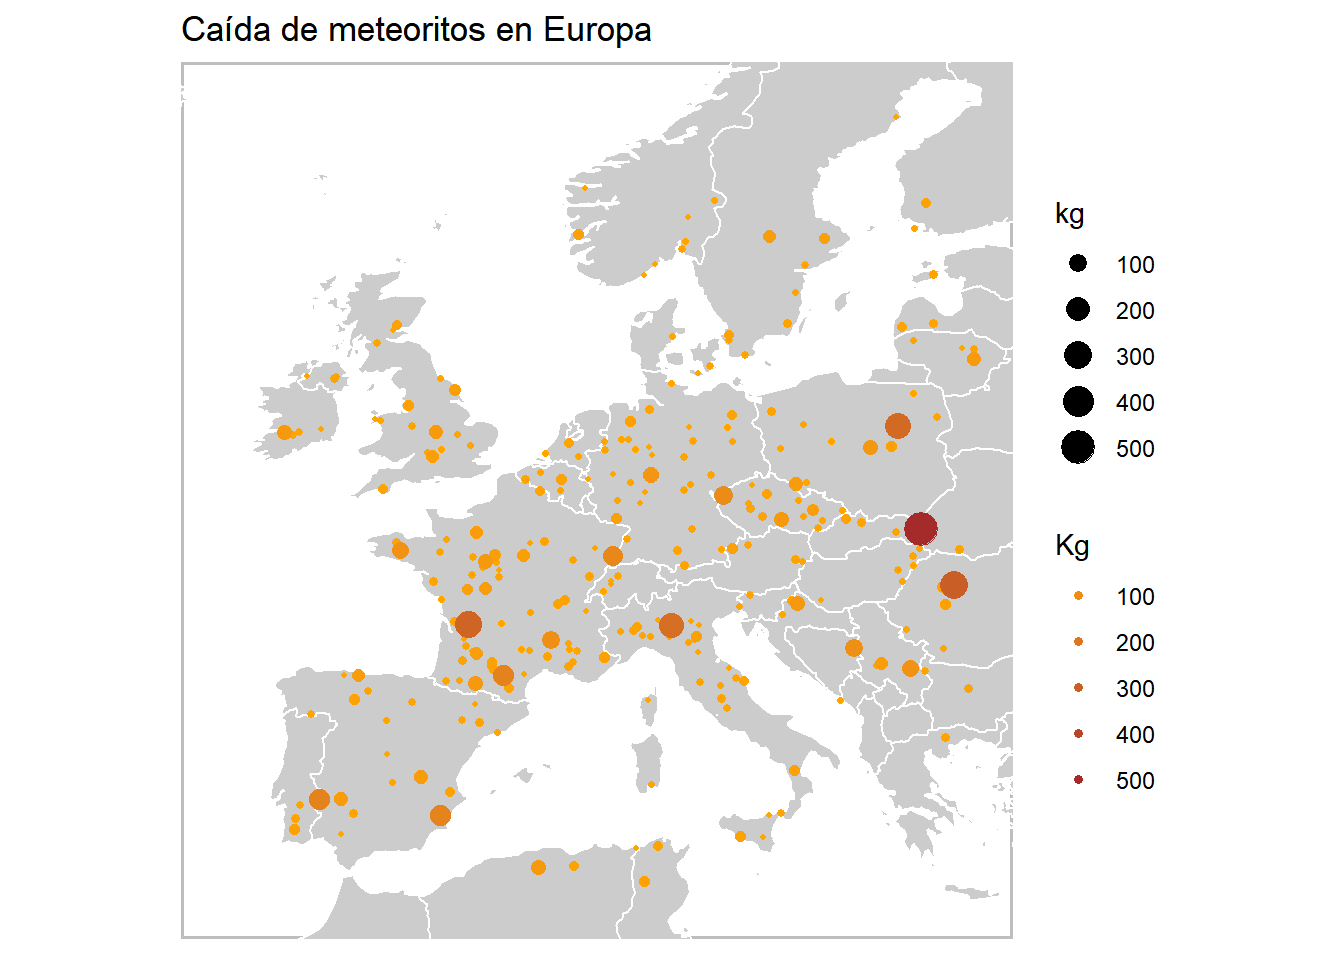
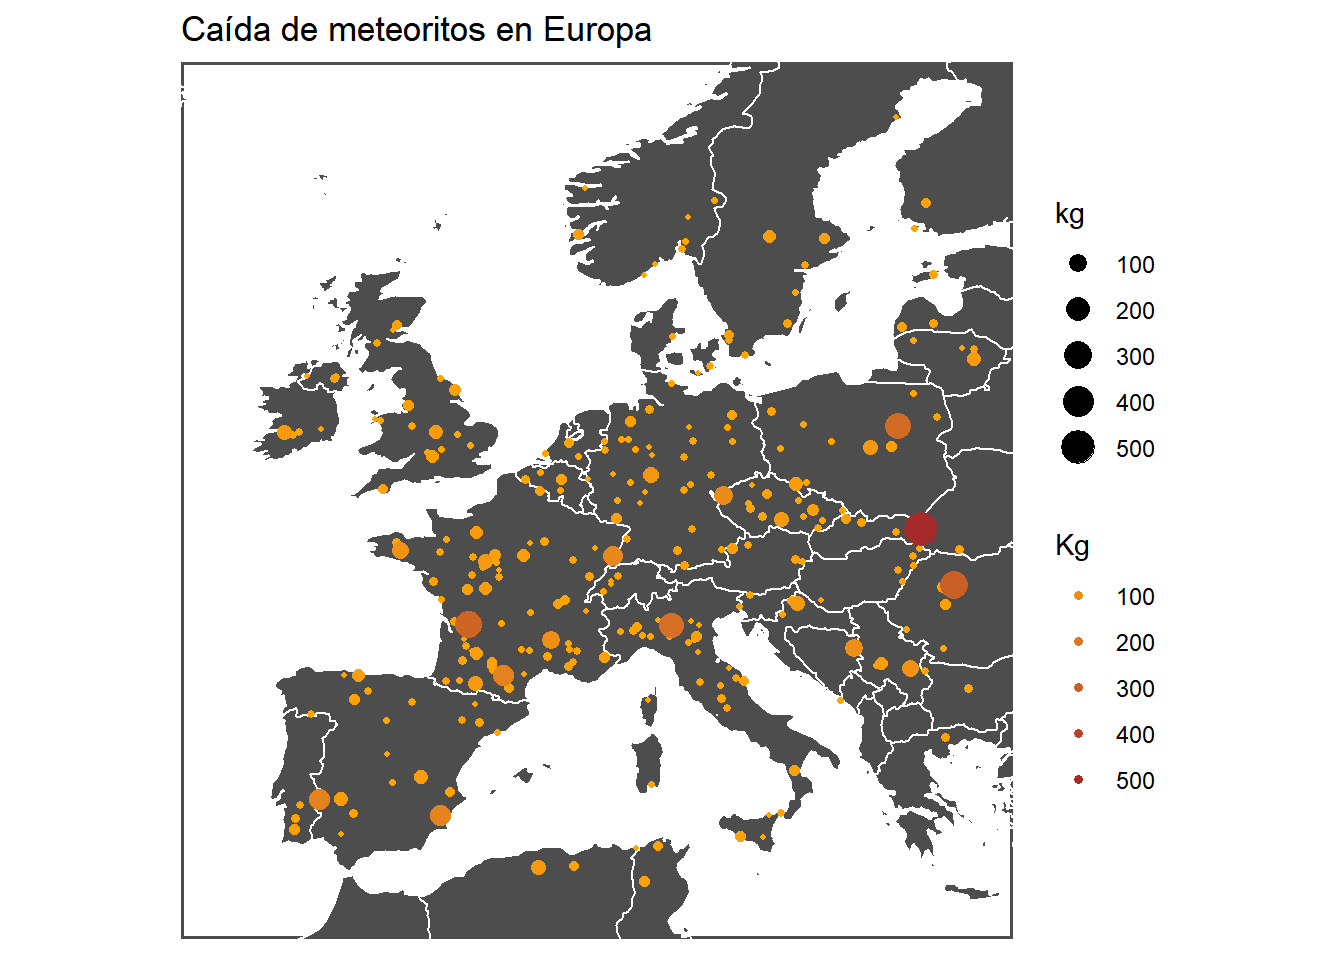
cuarto post

diff --git a/public/mapa_coordenadas/index.html b/public/mapa_coordenadas/index.html
@@ -293,7 +293,7 @@ mapa_mundo %&gt;%
 <p><img src="/mapa_coordenadas_files/figure-html/unnamed-chunk-9-1.png" width="80%" style="display: block; margin: auto;" /></p>
 <p><br />
 </p>
-<p>Para visualizar los <strong>meteoritos en una región determinada</strong> del globo debemos indicar las coordenadas tal y como se expuso previamente. Pongamos por ejemplo que nos interesa visualizar los <strong>meteoritos caídos (fell) en Europa</strong> podemos indicar los siguientes comandos:</p>
+<p>Para visualizar los <strong>meteoritos en una región determinada</strong> del globo debemos indicar las coordenadas tal y como se expuso previamente. Pongamos por ejemplo que nos interesa visualizar los <strong>meteoritos caídos (fell) en Europa</strong>, para ello podemos indicar los siguientes comandos:</p>
 <p><br />
 </p>
 <pre class="r"><code>
@@ -307,12 +307,12 @@ meteoritos_Europa &lt;- meteoritos %&gt;%
   arrange(mass)
 
 
-# graficamos en un mapa de Europa
+# graficamos en un mapa de Europa (y escogemos un fondo oscuro)
 
 mapa_mundo %&gt;%
   ggplot() + 
   geom_polygon(aes(x=long, y=lat, group=group),
-               fill= &quot;grey80&quot;, color=&quot;white&quot;) +
+               fill= &quot;grey30&quot;, color=&quot;white&quot;) +
   geom_point(data=meteoritos_Europa, aes(x=long, 
                                          y=lat, 
                                          size= mass/1000, 
@@ -330,9 +330,11 @@ mapa_mundo %&gt;%
     axis.text = element_blank(),
     axis.title = element_blank(),
     axis.ticks = element_blank(),
-    panel.background = element_rect(colour= &quot;grey&quot;, size= 1, fill= NA)
+    panel.background = element_rect(colour= &quot;grey30&quot;, size= 1, fill= NA)
   ) </code></pre>
 <p><img src="/mapa_coordenadas_files/figure-html/unnamed-chunk-10-1.png" width="70%" style="display: block; margin: auto;" /></p>
+<p><br />
+</p>
 </div>
 
                 </section>

diff --git a/content/mapa_coordenadas.html b/content/mapa_coordenadas.html
@@ -211,7 +211,7 @@ mapa_mundo %&gt;%
 <p><img src="/mapa_coordenadas_files/figure-html/unnamed-chunk-9-1.png" width="80%" style="display: block; margin: auto;" /></p>
 <p><br />
 </p>
-<p>Para visualizar los <strong>meteoritos en una región determinada</strong> del globo debemos indicar las coordenadas tal y como se expuso previamente. Pongamos por ejemplo que nos interesa visualizar los <strong>meteoritos caídos (fell) en Europa</strong> podemos indicar los siguientes comandos:</p>
+<p>Para visualizar los <strong>meteoritos en una región determinada</strong> del globo debemos indicar las coordenadas tal y como se expuso previamente. Pongamos por ejemplo que nos interesa visualizar los <strong>meteoritos caídos (fell) en Europa</strong>, para ello podemos indicar los siguientes comandos:</p>
 <p><br />
 </p>
 <pre class="r"><code>
@@ -225,12 +225,12 @@ meteoritos_Europa &lt;- meteoritos %&gt;%
   arrange(mass)
 
 
-# graficamos en un mapa de Europa
+# graficamos en un mapa de Europa (y escogemos un fondo oscuro)
 
 mapa_mundo %&gt;%
   ggplot() + 
   geom_polygon(aes(x=long, y=lat, group=group),
-               fill= &quot;grey80&quot;, color=&quot;white&quot;) +
+               fill= &quot;grey30&quot;, color=&quot;white&quot;) +
   geom_point(data=meteoritos_Europa, aes(x=long, 
                                          y=lat, 
                                          size= mass/1000, 
@@ -248,7 +248,9 @@ mapa_mundo %&gt;%
     axis.text = element_blank(),
     axis.title = element_blank(),
     axis.ticks = element_blank(),
-    panel.background = element_rect(colour= &quot;grey&quot;, size= 1, fill= NA)
+    panel.background = element_rect(colour= &quot;grey30&quot;, size= 1, fill= NA)
   ) </code></pre>
 <p><img src="/mapa_coordenadas_files/figure-html/unnamed-chunk-10-1.png" width="70%" style="display: block; margin: auto;" /></p>
+<p><br />
+</p>
 </div>
